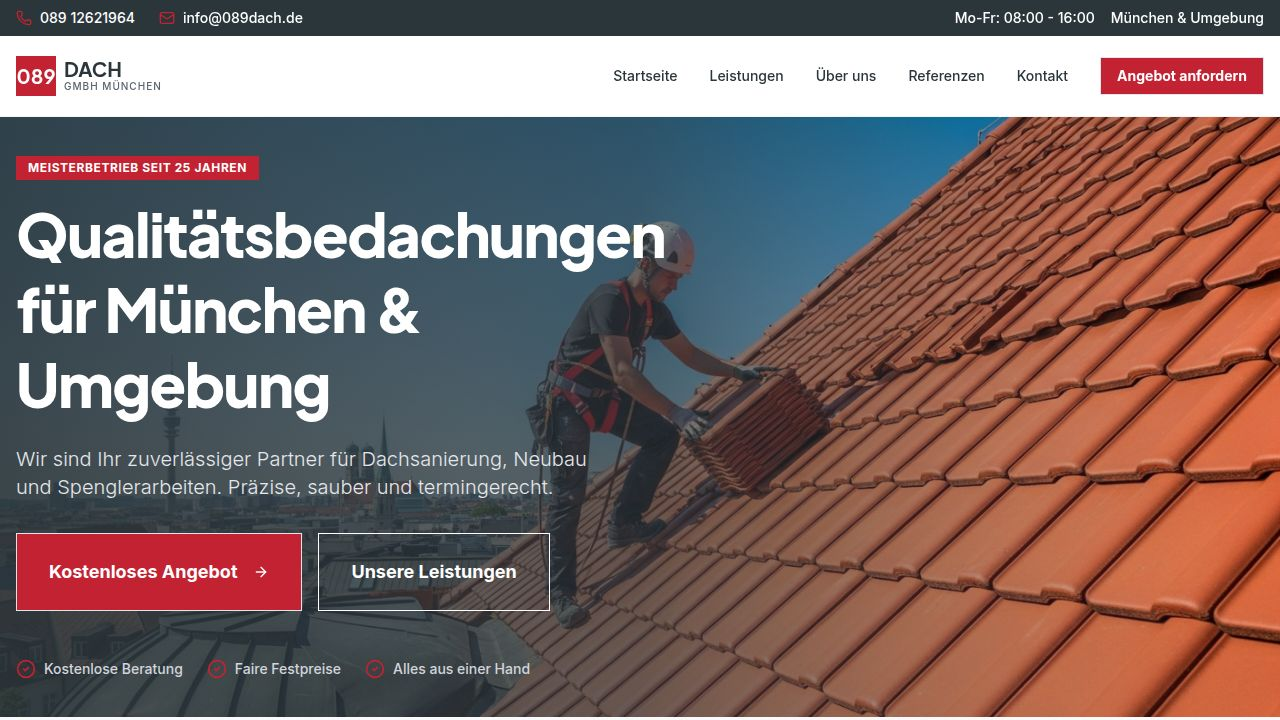
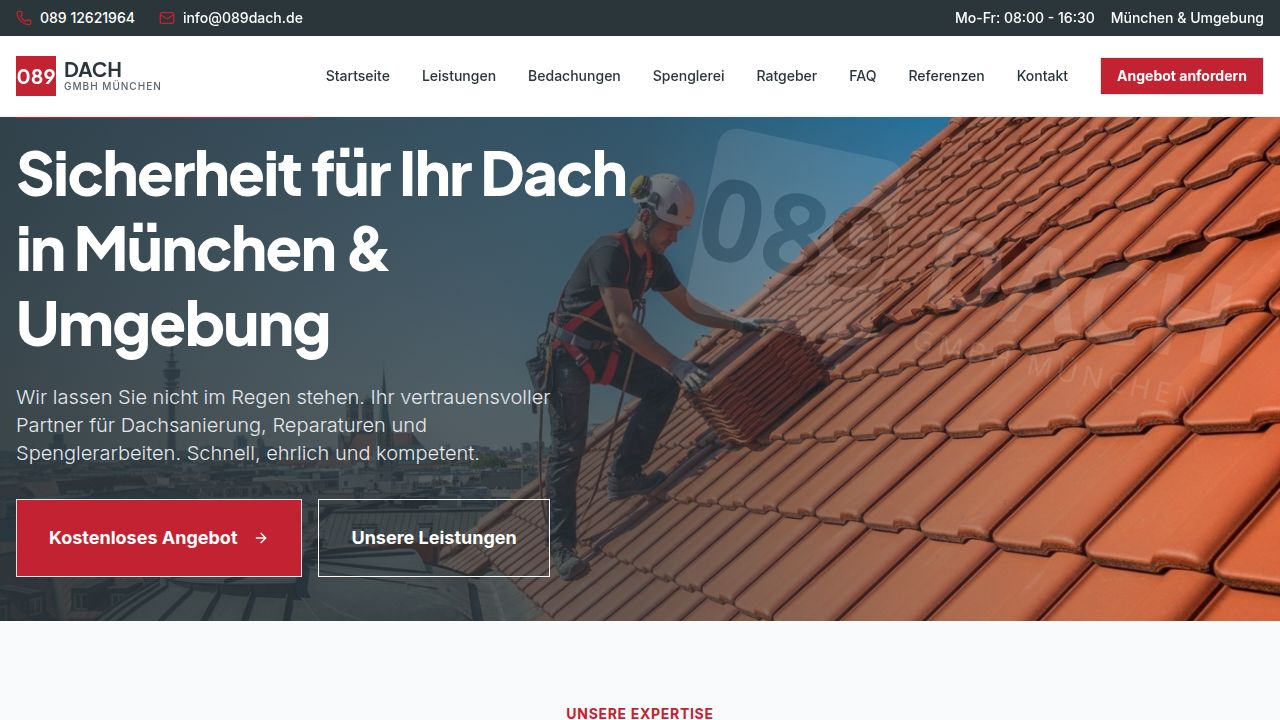
Adjust spacing and hero section sizes across all website pages
Refactors various page components to reduce vertical spacing and adjust hero section heights, improving overall page layout and visual consistency.

Replit-Commit-Author: Agent
Replit-Commit-Session-Id: edf99320-f8ce-45a8-b712-49b2ba35bbfa
Replit-Commit-Checkpoint-Type: full_checkpoint
Replit-Commit-Event-Id: 7b1aef43-634f-4649-af34-f1186678c3c7
Replit-Commit-Screenshot-Url: https://storage.googleapis.com/screenshot-production-us-central1/c3cfe89b-bd5d-4dc1-a831-1716e6b0ba0d/edf99320-f8ce-45a8-b712-49b2ba35bbfa/vx262o6
Replit-Helium-Checkpoint-Created: true

diff --git a/client/src/pages/FAQ.tsx b/client/src/pages/FAQ.tsx
@@ -39,7 +39,7 @@ export default function FAQ() {
       <Navbar />
       
       {/* Hero Section */}
-      <div className="relative w-full h-[40vh] min-h-[300px] flex items-center overflow-hidden">
+      <div className="relative w-full h-[35vh] min-h-[300px] flex items-center overflow-hidden">
         <div className="absolute inset-0 z-0">
           <img
             src={heroImage}
@@ -59,7 +59,7 @@ export default function FAQ() {
       </div>
 
       {/* Values Section */}
-      <section className="py-16 bg-white">
+      <section className="py-12 bg-white">
         <div className="container mx-auto px-4">
           <div className="grid grid-cols-1 md:grid-cols-3 gap-8 mb-16">
             <div className="bg-gray-50 p-8 rounded-sm border border-gray-100 text-center hover:shadow-md transition-shadow">

diff --git a/client/src/pages/Referenzen.tsx b/client/src/pages/Referenzen.tsx
@@ -58,7 +58,7 @@ export default function Referenzen() {
       <Navbar />
       
       {/* Hero Section */}
-      <div className="relative w-full h-[40vh] min-h-[300px] flex items-center overflow-hidden">
+      <div className="relative w-full h-[35vh] min-h-[300px] flex items-center overflow-hidden">
         <div className="absolute inset-0 z-0">
           <img
             src={heroImage}
@@ -78,7 +78,7 @@ export default function Referenzen() {
       </div>
 
       {/* Gallery Grid */}
-      <section className="py-20 bg-gray-50">
+      <section className="py-12 bg-gray-50">
         <div className="container mx-auto px-4">
           <div className="grid grid-cols-1 md:grid-cols-2 lg:grid-cols-3 gap-8">
             {projects.map((project, index) => (

diff --git a/client/src/pages/Leistungen.tsx b/client/src/pages/Leistungen.tsx
@@ -88,7 +88,7 @@ export default function Leistungen() {
       <Navbar />
       
       {/* Hero Section */}
-      <div className="relative w-full h-[50vh] min-h-[400px] flex items-center overflow-hidden">
+      <div className="relative w-full h-[40vh] min-h-[350px] flex items-center overflow-hidden">
         <div className="absolute inset-0 z-0">
           <img
             src={heroImage}
@@ -108,7 +108,7 @@ export default function Leistungen() {
       </div>
 
       {/* Services List */}
-      <section className="py-20">
+      <section className="py-12">
         <div className="container mx-auto px-4">
           <div className="grid grid-cols-1 gap-12">
             {services.map((service, index) => (

diff --git a/client/src/pages/Bedachungen.tsx b/client/src/pages/Bedachungen.tsx
@@ -13,7 +13,7 @@ export default function Bedachungen() {
       <Navbar />
       
       {/* Hero Section */}
-      <div className="relative w-full h-[50vh] min-h-[400px] flex items-center overflow-hidden">
+      <div className="relative w-full h-[40vh] min-h-[350px] flex items-center overflow-hidden">
         <div className="absolute inset-0 z-0">
           <img
             src={heroImage}
@@ -33,7 +33,7 @@ export default function Bedachungen() {
       </div>
 
       {/* Main Content */}
-      <section className="py-20">
+      <section className="py-12">
         <div className="container mx-auto px-4">
           <div className="grid grid-cols-1 lg:grid-cols-2 gap-16 items-start">
             

diff --git a/client/src/pages/Spenglerei.tsx b/client/src/pages/Spenglerei.tsx
@@ -13,7 +13,7 @@ export default function Spenglerei() {
       <Navbar />
       
       {/* Hero Section */}
-      <div className="relative w-full h-[50vh] min-h-[400px] flex items-center overflow-hidden">
+      <div className="relative w-full h-[40vh] min-h-[350px] flex items-center overflow-hidden">
         <div className="absolute inset-0 z-0">
           <img
             src={heroImage}
@@ -33,7 +33,7 @@ export default function Spenglerei() {
       </div>
 
       {/* Main Content */}
-      <section className="py-20">
+      <section className="py-12">
         <div className="container mx-auto px-4">
           <div className="grid grid-cols-1 lg:grid-cols-2 gap-16 items-start">
             

diff --git a/client/src/pages/CookiePolicy.tsx b/client/src/pages/CookiePolicy.tsx
@@ -6,7 +6,7 @@ export default function CookiePolicy() {
     <div className="min-h-screen bg-background font-sans">
       <Navbar />
       
-      <div className="container mx-auto px-4 py-20 max-w-4xl">
+      <div className="container mx-auto px-4 pt-24 pb-12 max-w-4xl">
         <h1 className="text-4xl font-heading font-bold mb-8 text-secondary">Cookie-Richtlinie (EU)</h1>
 
         <div className="prose prose-lg text-muted-foreground">

diff --git a/client/src/pages/Datenschutz.tsx b/client/src/pages/Datenschutz.tsx
@@ -6,7 +6,7 @@ export default function Datenschutz() {
     <div className="min-h-screen bg-background font-sans">
       <Navbar />
       
-      <div className="container mx-auto px-4 py-20 max-w-4xl">
+      <div className="container mx-auto px-4 pt-24 pb-12 max-w-4xl">
         <h1 className="text-4xl font-heading font-bold mb-8 text-secondary">Datenschutzerklärung</h1>
 
         <div className="prose prose-lg text-muted-foreground">

diff --git a/client/src/components/Hero.tsx b/client/src/components/Hero.tsx
@@ -4,7 +4,7 @@ import heroImage from "@assets/generated_images/roofer_working_on_red_tile_roof_
 
 export default function Hero() {
   return (
-    <div className="relative w-full h-[80vh] min-h-[600px] flex items-center overflow-hidden">
+    <div className="relative w-full h-[70vh] min-h-[500px] flex items-center overflow-hidden">
       {/* Background Image with Overlay */}
       <div className="absolute inset-0 z-0">
         <img

diff --git a/client/src/pages/Ratgeber.tsx b/client/src/pages/Ratgeber.tsx
@@ -51,7 +51,7 @@ export default function Ratgeber() {
       <Navbar />
       
       {/* Hero Section */}
-      <section className="pt-32 pb-20 bg-gray-50">
+      <section className="pt-24 pb-12 bg-gray-50">
         <div className="container mx-auto px-4">
           <div className="max-w-3xl mx-auto text-center">
             <span className="text-primary font-bold tracking-wider uppercase text-sm">089Dach Ratgeber</span>

diff --git a/client/src/pages/Impressum.tsx b/client/src/pages/Impressum.tsx
@@ -6,7 +6,7 @@ export default function Impressum() {
     <div className="min-h-screen bg-background font-sans">
       <Navbar />
       
-      <section className="pt-32 pb-20">
+      <section className="pt-24 pb-12">
         <div className="container mx-auto px-4 max-w-3xl">
           <h1 className="text-4xl font-heading font-bold text-secondary mb-8">Impressum</h1>
           
